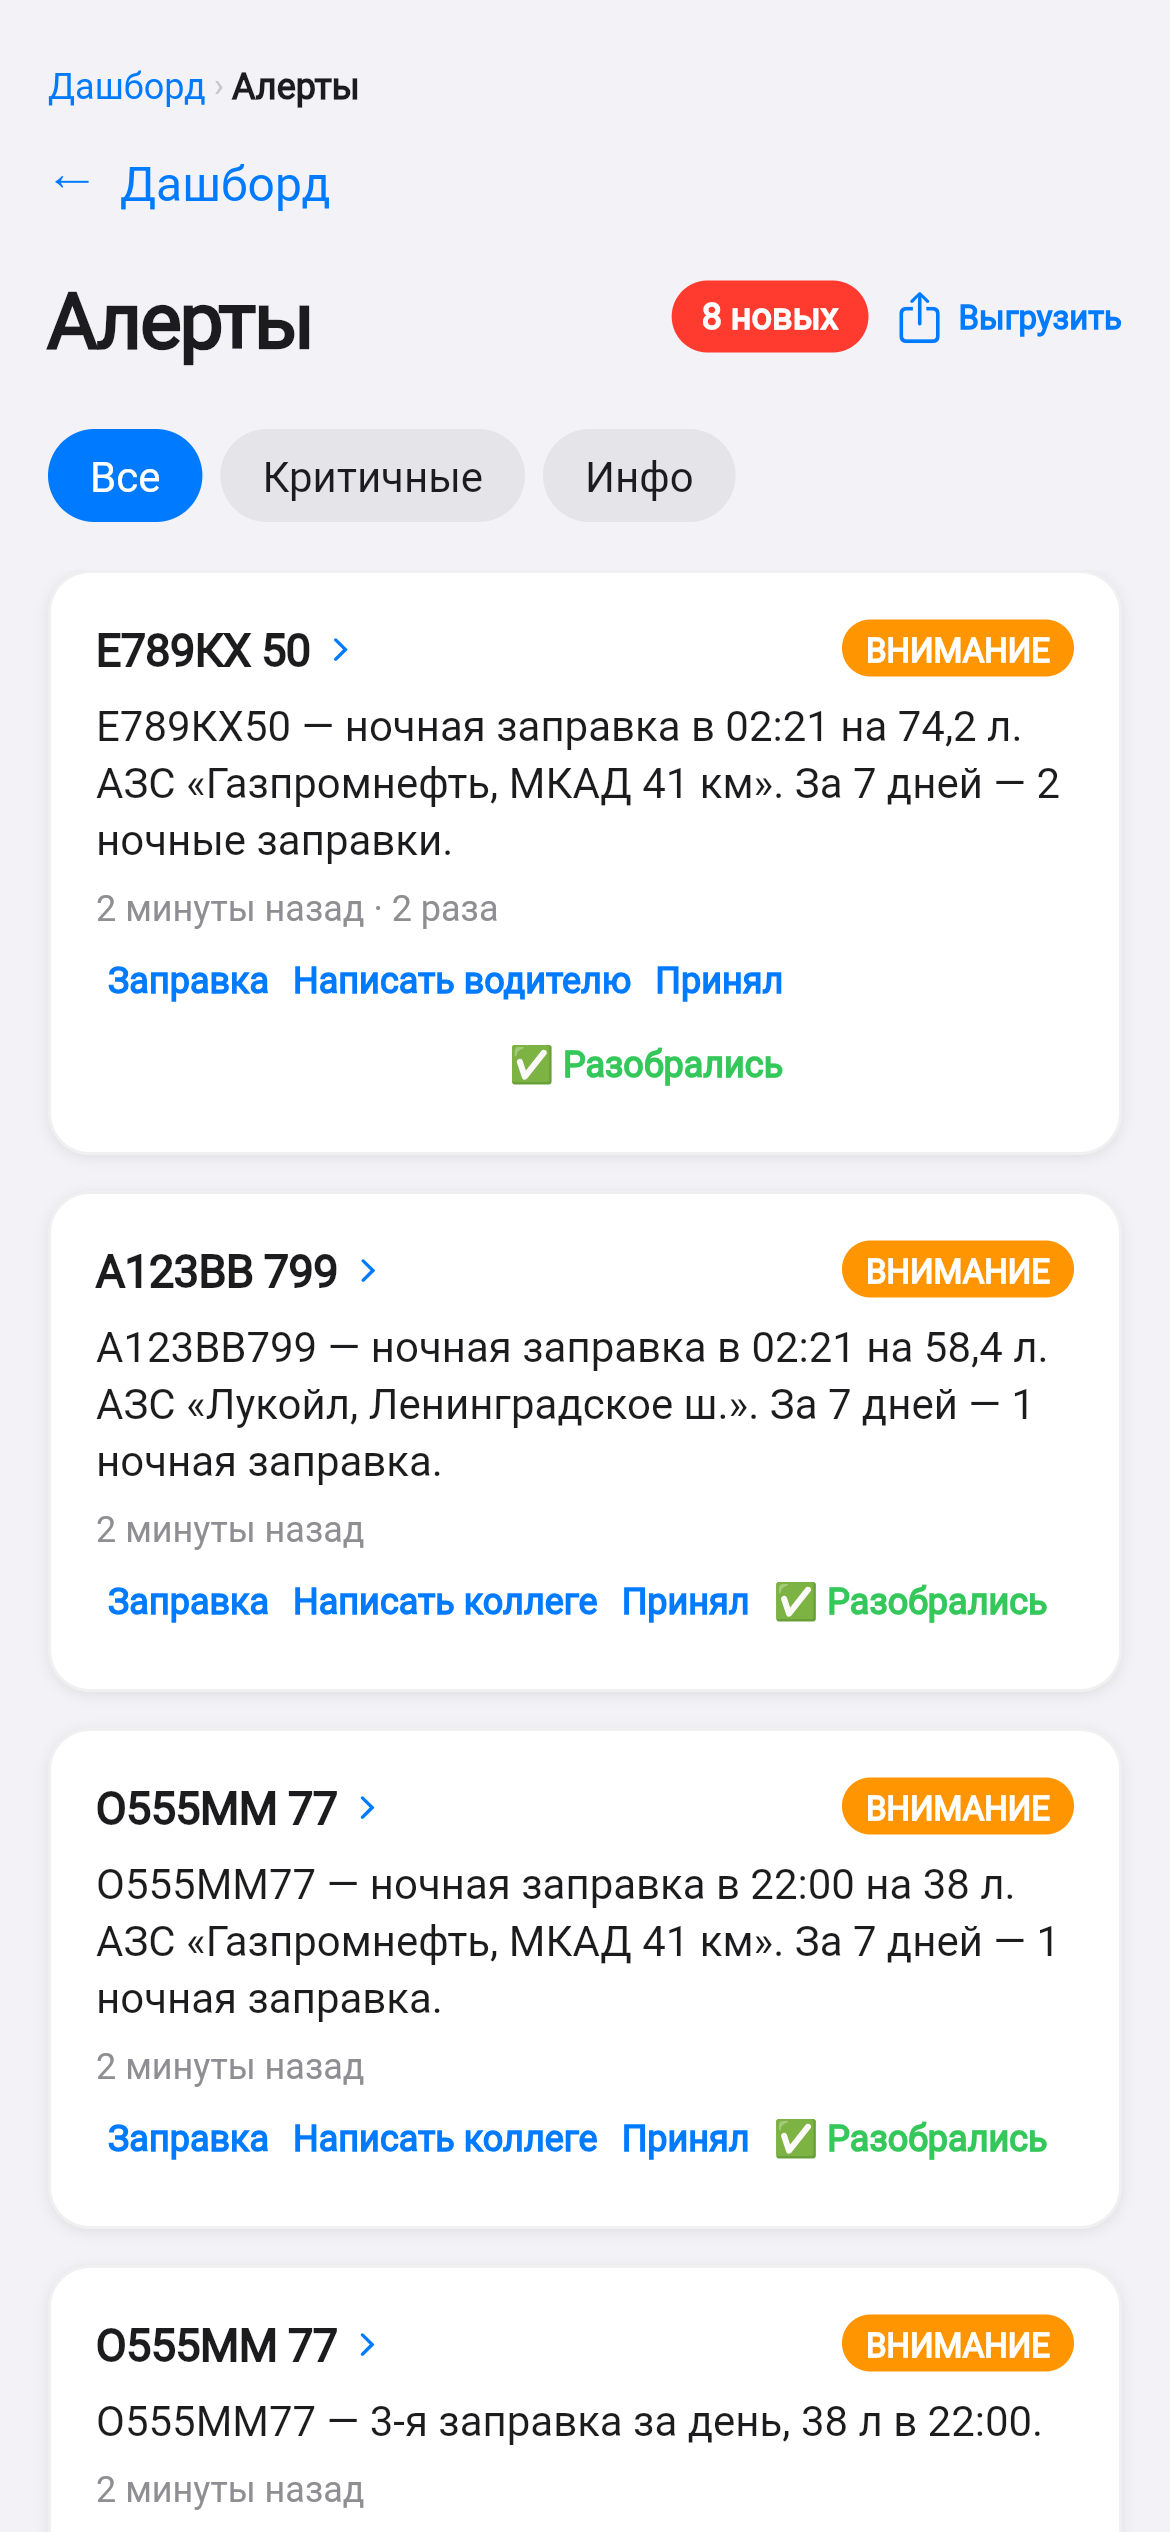
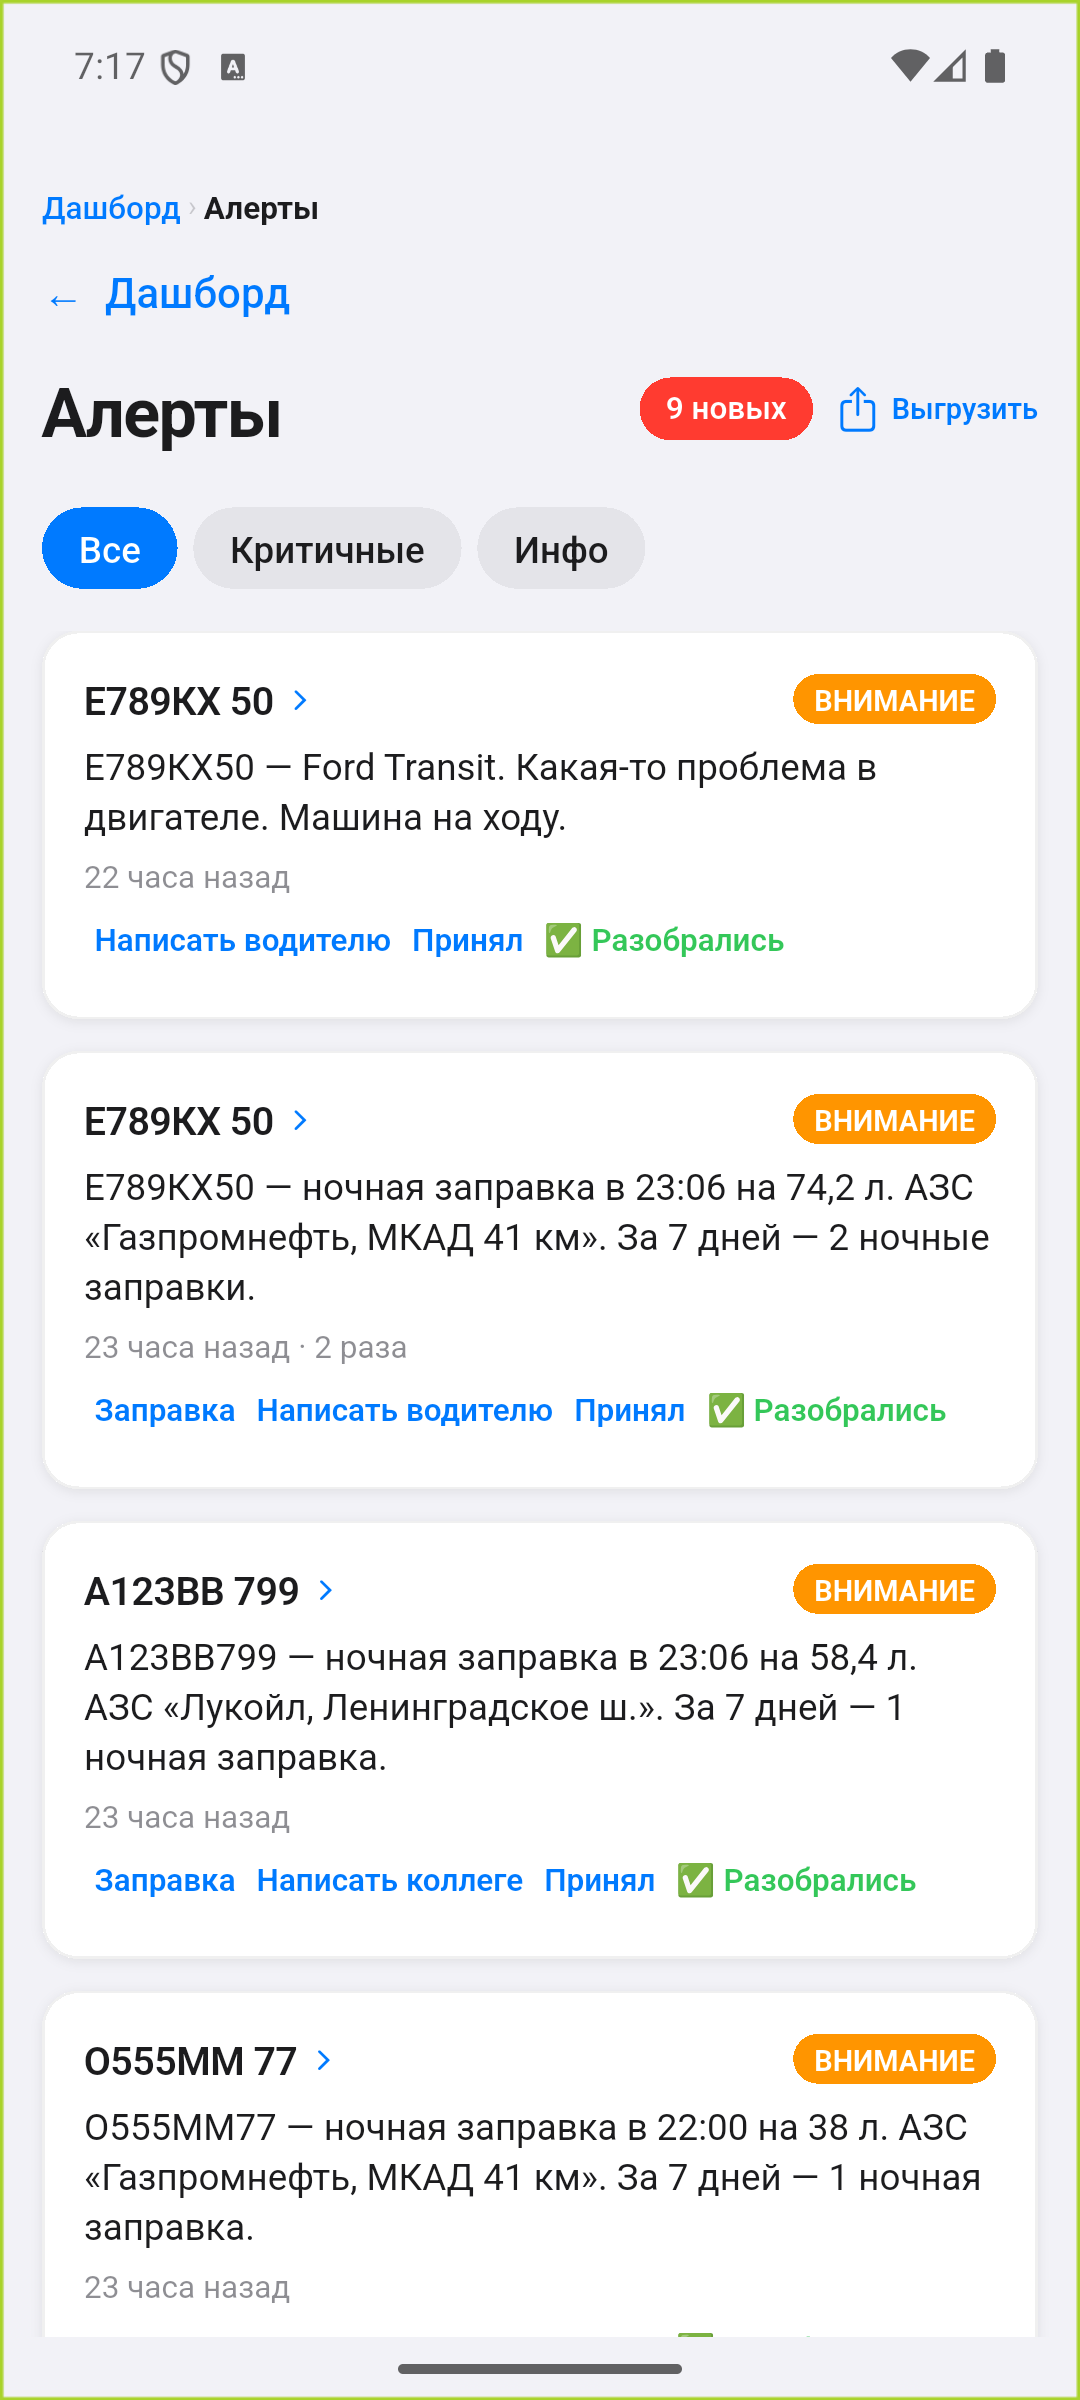
Свежие снимки приложения и семь экранов вместо трёх
Картинки были от старой сборки: без логотипа, без правового раздела, и в hero
стояло «8 проблем», когда на экране девять. Пересняты с живого приложения.

Экранов в разделе «Как это выглядит» стало семь вместо трёх, и у каждого теперь
пояснение, что именно на нём видно: тревоги, заправки, настраиваемые правила,
кабинет водителя, дашборд диспетчера, вход с ролями, правовые документы.

Поправлены два расхождения с продуктом: веб-кабинета больше нет (клиенты
пользуются мобильным приложением — так и написано), и в описании ролей был
механик, которого в сервисе не существует.

diff --git a/README.md b/README.md
@@ -6,7 +6,11 @@
 пробегу и норме, сверяет с фактическими заправками и при расхождении пишет
 владельцу в Telegram.
 
-<img src="images/hero.png" width="320" alt="Сводка владельца: 8 проблем с топливом, отклонение +18,1%, потери ~4 688 ₽ за 30 дней">
+<img src="images/hero.png" width="320" alt="Сводка владельца: 9 проблем с топливом, отклонение по парку +18,1%, потери ~4 688 ₽ за 30 дней">
+
+Первый экран отвечает на один вопрос: **где течёт и сколько это стоит.** Девять
+проблем с топливом, среднее отклонение по парку +18,1%, потери около 4 688 ₽ за
+тридцать дней — и сразу ниже машины, с которыми нужно разобраться сегодня.
 
 ## Для кого
 
@@ -36,22 +40,35 @@
 
 ## Как это выглядит в работе
 
+Снимки — с настоящего приложения на живых данных, а не рисунки.
+
 | | |
 |---|---|
-| <img src="images/alerts.png" width="300" alt="Тревоги: ночная заправка в 02:21 на 74,2 л"> | **Тревоги.** «Ночная заправка в 02:21 на 74,2 л, АЗС Газпромнефть, МКАД 41 км. За 7 дней — 2 ночные заправки». Не «что-то не так», а что именно, где и сколько раз. |
-| <img src="images/fleet.png" width="300" alt="Парк: расход и отклонение по каждой машине"> | **Парк.** Сколько машина съедает на сотню и насколько это выше нормы. Красное — то, с чем нужно разбираться сегодня. |
-| <img src="images/fuel.png" width="300" alt="История заправок с пометками «ночная заправка» и «несколько заправок за день»"> | **Заправки.** Каждая с одометром, станцией и пометкой, если с ней что-то не так: ночная, несколько за день, больше бака. |
+| <img src="images/alerts.png" width="300" alt="Тревоги: ночная заправка в 23:06 на 74,2 л, АЗС Газпромнефть"> | **Тревоги.** «Ночная заправка в 23:06 на 74,2 л, АЗС Газпромнефть, МКАД 41 км. За 7 дней — 2 ночные заправки». Не «что-то не так», а что именно, где и сколько раз. Рядом — что с этим делать: написать водителю, принять, «разобрались». |
+| <img src="images/fuel.png" width="300" alt="История заправок с пометками «ночная заправка» и «несколько заправок за день»"> | **Заправки.** Каждая с литрами, суммой, одометром и станцией. Видно и откуда она взялась: внесли вручную или подтянули из выгрузки с АЗС. Подозрительные помечены прямо в строке — ночная, несколько за день. |
+| <img src="images/rules.png" width="300" alt="Бизнес-правила: когда начинается ночь, порог отклонения, критический перерасход"> | **Правила задаёт владелец, а не разработчик.** Когда начинается ночь, сколько ночных заправок за неделю — уже система, при каком отклонении поднимать тревогу и с какого порога перерасход считается критическим. Самосвал и легковая живут по разным числам. |
+| <img src="images/driver.png" width="300" alt="Кабинет водителя: его машина, расход против нормы, рейсы и заправки"> | **Водителю — своё.** Не урезанная копия кабинета владельца: его машина, его расход против нормы («25,3 при норме 20,0 — на 26% выше»), его рейсы со статусом, путевые листы и заправки с фото чека. Одной рукой, в три касания. |
+| <img src="images/dispatcher.png" width="300" alt="Дашборд диспетчера: норма против факта, машины с отклонением"> | **Диспетчеру — своё.** Норма против факта по парку за месяц, машины с отклонением и быстрые действия смены: импорт топлива, водители, поездки, ТО. |
+| <img src="images/roles.png" width="300" alt="Вход: сохранённые входы владельца, управляющего, диспетчера, бухгалтера и водителя"> | **Один телефон на смену.** В парке телефон нередко делят, поэтому вход помнит тех, кто уже заходил: роль меняется плашкой, а не набором номера заново. |
+| <img src="images/legal.png" width="300" alt="Правовое: оферта, политика 152-ФЗ, согласие на обработку данных, реквизиты продавца"> | **Документы на виду.** Оферта, политика по 152-ФЗ, согласие на обработку персональных данных и реквизиты продавца открываются прямо из приложения — в том числе до входа. Геотрек водителя в политике назван персональными данными прямо. |
 
 ## Каждому своё окно
 
-Владелец видит деньги парка. Диспетчер — машины, рейсы и людей. Бухгалтер —
-документы и закрытие месяца. Механик — регламенты и заявки о поломках.
-Водитель — только свою машину и свою заправку, в три касания.
+Владелец видит деньги парка. Управляющий — то же плюс людей и правила.
+Диспетчер — машины, рейсы и переписку с водителями. Бухгалтер — документы,
+расходы и закрытие месяца. Водитель — только свою машину и свою заправку.
+
+Права решает сервер, а не приложение: бухгалтер не увидит чужой парк, даже если
+знает адрес экрана.
 
 ## Статус
 
-Продукт работает целиком: приложение, веб-кабинет, оповещения, документы.
-Сейчас ищем первые парки, чтобы пройти его на настоящих данных и настоящих
+Продукт работает целиком: приложение, оповещения в Telegram, документы,
+напоминания о ТО. Клиенты пользуются **мобильным приложением** — отдельного
+веб-кабинета нет намеренно: парк живёт в кабине и в гараже, а не за рабочим
+столом.
+
+Сейчас ищем первые парки, чтобы пройти сервис на настоящих данных и настоящих
 выгрузках с заправок. Если у вас парк — напишите, покажем на ваших числах.
 
 ## Связь
